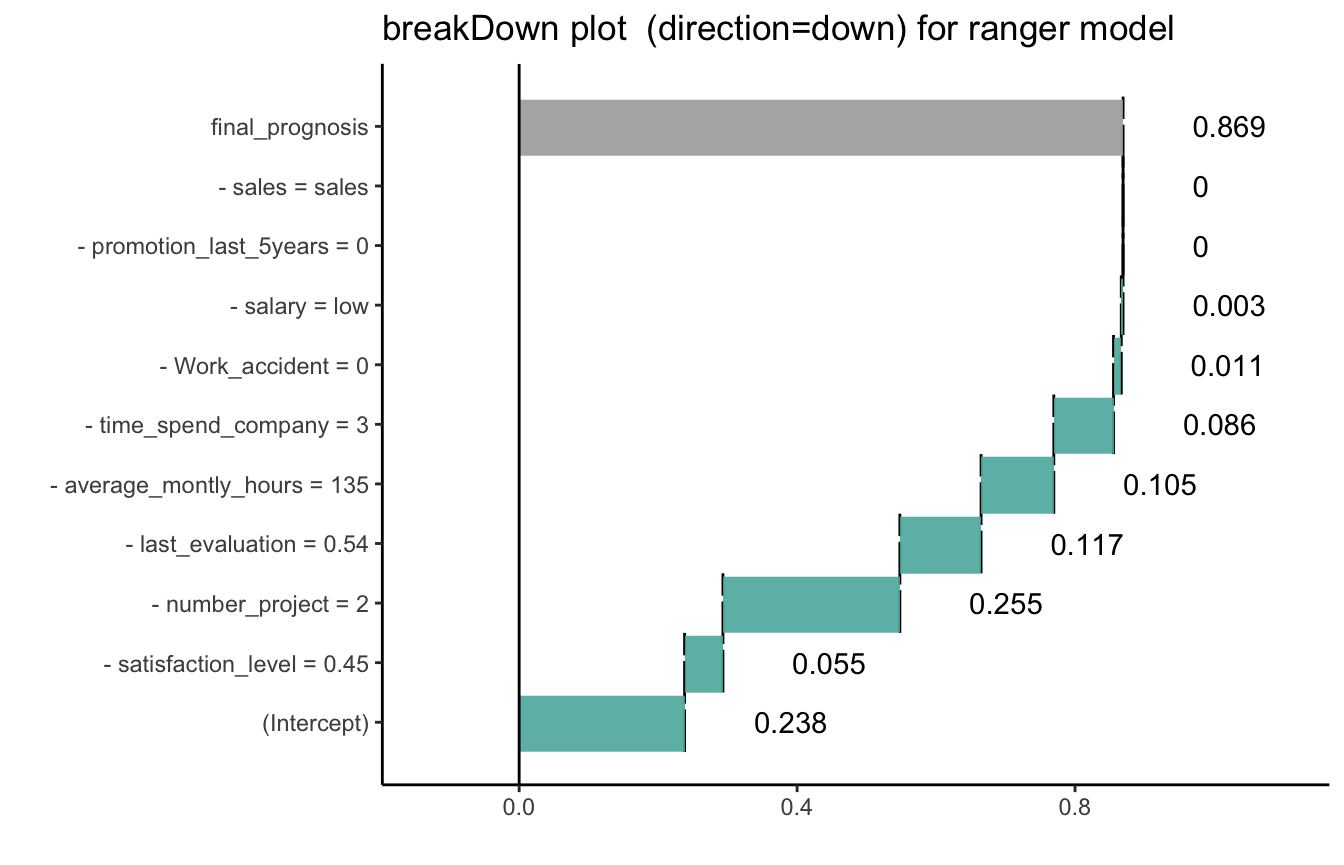
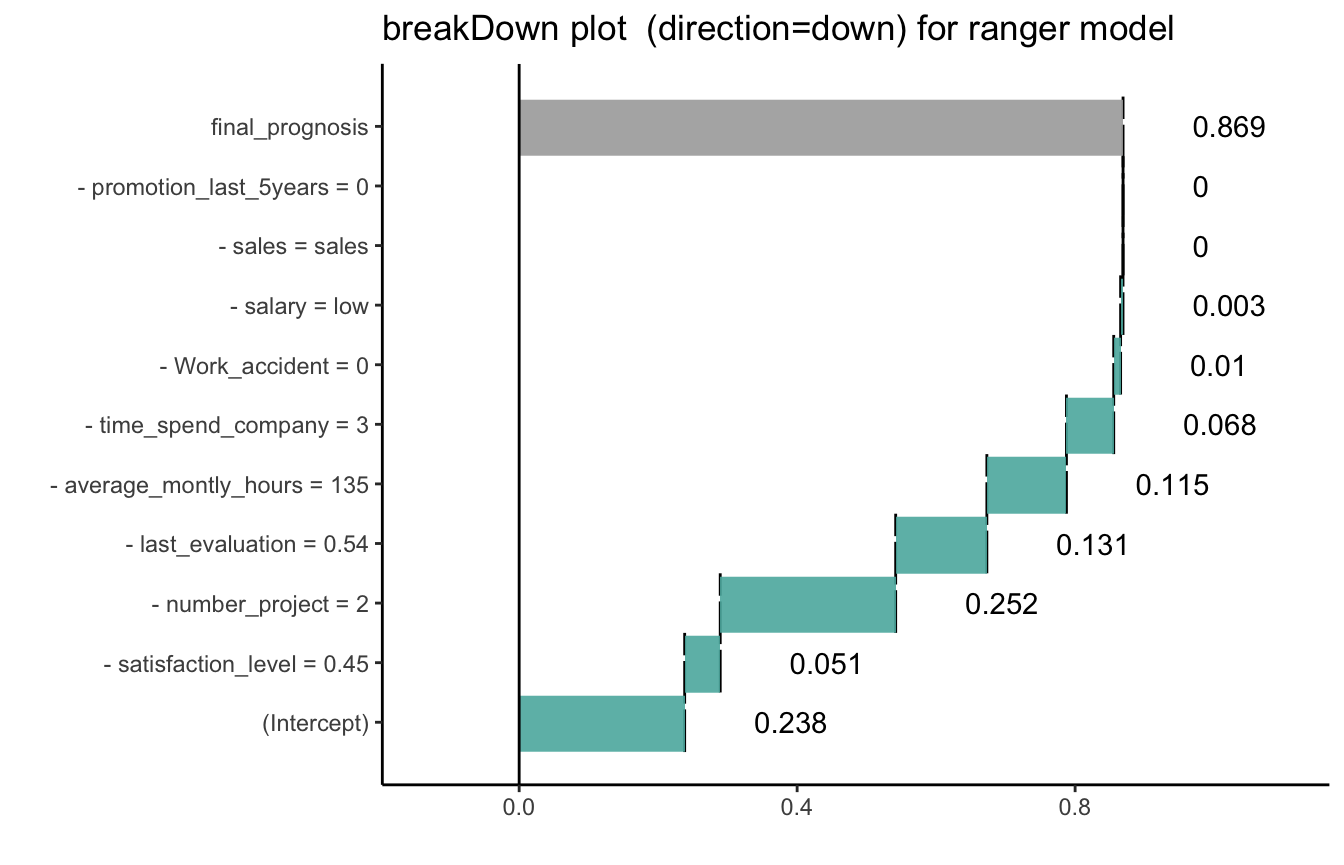
+ link to the python version

diff --git a/docs/articles/break_ranger.html b/docs/articles/break_ranger.html
@@ -117,8 +117,8 @@
 <a class="sourceLine" id="cb2-5" data-line-number="5">predict.function &lt;-<span class="st"> </span><span class="cf">function</span>(model, new_observation) <span class="kw">predict</span>(model, new_observation, <span class="dt">type =</span> <span class="st">"response"</span>)<span class="op">$</span>predictions[,<span class="dv">2</span>]</a>
 <a class="sourceLine" id="cb2-6" data-line-number="6"></a>
 <a class="sourceLine" id="cb2-7" data-line-number="7"><span class="kw">predict.function</span>(model, HR_data[<span class="dv">11</span>,])</a>
-<a class="sourceLine" id="cb2-8" data-line-number="8"><span class="co">#&gt;        1 </span></a>
-<a class="sourceLine" id="cb2-9" data-line-number="9"><span class="co">#&gt; 0.869104</span></a></code></pre></div>
+<a class="sourceLine" id="cb2-8" data-line-number="8"><span class="co">#&gt;         1 </span></a>
+<a class="sourceLine" id="cb2-9" data-line-number="9"><span class="co">#&gt; 0.8689887</span></a></code></pre></div>
 <p>But how to understand which factors drive predictions for a single observation?</p>
 <p>With the <code>breakDown</code> package!</p>
 <p>Explanations for the trees votings.</p>
@@ -130,15 +130,15 @@
 <a class="sourceLine" id="cb3-6" data-line-number="6">explain_<span class="dv">1</span></a>
 <a class="sourceLine" id="cb3-7" data-line-number="7"><span class="co">#&gt;                              contribution</span></a>
 <a class="sourceLine" id="cb3-8" data-line-number="8"><span class="co">#&gt; (Intercept)                         0.238</span></a>
-<a class="sourceLine" id="cb3-9" data-line-number="9"><span class="co">#&gt; - satisfaction_level = 0.45         0.055</span></a>
-<a class="sourceLine" id="cb3-10" data-line-number="10"><span class="co">#&gt; - number_project = 2                0.255</span></a>
-<a class="sourceLine" id="cb3-11" data-line-number="11"><span class="co">#&gt; - last_evaluation = 0.54            0.117</span></a>
-<a class="sourceLine" id="cb3-12" data-line-number="12"><span class="co">#&gt; - average_montly_hours = 135        0.105</span></a>
-<a class="sourceLine" id="cb3-13" data-line-number="13"><span class="co">#&gt; - time_spend_company = 3            0.086</span></a>
-<a class="sourceLine" id="cb3-14" data-line-number="14"><span class="co">#&gt; - Work_accident = 0                 0.011</span></a>
+<a class="sourceLine" id="cb3-9" data-line-number="9"><span class="co">#&gt; - satisfaction_level = 0.45         0.051</span></a>
+<a class="sourceLine" id="cb3-10" data-line-number="10"><span class="co">#&gt; - number_project = 2                0.252</span></a>
+<a class="sourceLine" id="cb3-11" data-line-number="11"><span class="co">#&gt; - last_evaluation = 0.54            0.131</span></a>
+<a class="sourceLine" id="cb3-12" data-line-number="12"><span class="co">#&gt; - average_montly_hours = 135        0.115</span></a>
+<a class="sourceLine" id="cb3-13" data-line-number="13"><span class="co">#&gt; - time_spend_company = 3            0.068</span></a>
+<a class="sourceLine" id="cb3-14" data-line-number="14"><span class="co">#&gt; - Work_accident = 0                 0.010</span></a>
 <a class="sourceLine" id="cb3-15" data-line-number="15"><span class="co">#&gt; - salary = low                      0.003</span></a>
-<a class="sourceLine" id="cb3-16" data-line-number="16"><span class="co">#&gt; - promotion_last_5years = 0         0.000</span></a>
-<a class="sourceLine" id="cb3-17" data-line-number="17"><span class="co">#&gt; - sales = sales                     0.000</span></a>
+<a class="sourceLine" id="cb3-16" data-line-number="16"><span class="co">#&gt; - sales = sales                     0.000</span></a>
+<a class="sourceLine" id="cb3-17" data-line-number="17"><span class="co">#&gt; - promotion_last_5years = 0         0.000</span></a>
 <a class="sourceLine" id="cb3-18" data-line-number="18"><span class="co">#&gt; final_prognosis                     0.869</span></a>
 <a class="sourceLine" id="cb3-19" data-line-number="19"><span class="co">#&gt; baseline:  0</span></a>
 <a class="sourceLine" id="cb3-20" data-line-number="20"><span class="kw">plot</span>(explain_<span class="dv">1</span>) <span class="op">+</span><span class="st"> </span><span class="kw"><a href="http://www.rdocumentation.org/packages/ggplot2/topics/labs">ggtitle</a></span>(<span class="st">"breakDown plot  (direction=down) for ranger model"</span>)</a></code></pre></div>
@@ -150,15 +150,15 @@
 <a class="sourceLine" id="cb4-5" data-line-number="5">explain_<span class="dv">2</span></a>
 <a class="sourceLine" id="cb4-6" data-line-number="6"><span class="co">#&gt;                              contribution</span></a>
 <a class="sourceLine" id="cb4-7" data-line-number="7"><span class="co">#&gt; (Intercept)                         0.238</span></a>
-<a class="sourceLine" id="cb4-8" data-line-number="8"><span class="co">#&gt; + satisfaction_level = 0.45         0.055</span></a>
-<a class="sourceLine" id="cb4-9" data-line-number="9"><span class="co">#&gt; + number_project = 2                0.255</span></a>
-<a class="sourceLine" id="cb4-10" data-line-number="10"><span class="co">#&gt; + last_evaluation = 0.54            0.117</span></a>
-<a class="sourceLine" id="cb4-11" data-line-number="11"><span class="co">#&gt; + average_montly_hours = 135        0.105</span></a>
-<a class="sourceLine" id="cb4-12" data-line-number="12"><span class="co">#&gt; + time_spend_company = 3            0.086</span></a>
-<a class="sourceLine" id="cb4-13" data-line-number="13"><span class="co">#&gt; + Work_accident = 0                 0.011</span></a>
+<a class="sourceLine" id="cb4-8" data-line-number="8"><span class="co">#&gt; + satisfaction_level = 0.45         0.051</span></a>
+<a class="sourceLine" id="cb4-9" data-line-number="9"><span class="co">#&gt; + number_project = 2                0.252</span></a>
+<a class="sourceLine" id="cb4-10" data-line-number="10"><span class="co">#&gt; + last_evaluation = 0.54            0.131</span></a>
+<a class="sourceLine" id="cb4-11" data-line-number="11"><span class="co">#&gt; + average_montly_hours = 135        0.115</span></a>
+<a class="sourceLine" id="cb4-12" data-line-number="12"><span class="co">#&gt; + time_spend_company = 3            0.068</span></a>
+<a class="sourceLine" id="cb4-13" data-line-number="13"><span class="co">#&gt; + Work_accident = 0                 0.010</span></a>
 <a class="sourceLine" id="cb4-14" data-line-number="14"><span class="co">#&gt; + salary = low                      0.003</span></a>
-<a class="sourceLine" id="cb4-15" data-line-number="15"><span class="co">#&gt; + promotion_last_5years = 0         0.000</span></a>
-<a class="sourceLine" id="cb4-16" data-line-number="16"><span class="co">#&gt; + sales = sales                     0.000</span></a>
+<a class="sourceLine" id="cb4-15" data-line-number="15"><span class="co">#&gt; + sales = sales                     0.000</span></a>
+<a class="sourceLine" id="cb4-16" data-line-number="16"><span class="co">#&gt; + promotion_last_5years = 0         0.000</span></a>
 <a class="sourceLine" id="cb4-17" data-line-number="17"><span class="co">#&gt; final_prognosis                     0.869</span></a>
 <a class="sourceLine" id="cb4-18" data-line-number="18"><span class="co">#&gt; baseline:  0</span></a>
 <a class="sourceLine" id="cb4-19" data-line-number="19"><span class="kw">plot</span>(explain_<span class="dv">2</span>) <span class="op">+</span><span class="st"> </span><span class="kw"><a href="http://www.rdocumentation.org/packages/ggplot2/topics/labs">ggtitle</a></span>(<span class="st">"breakDown plot (direction=up) for ranger model"</span>)</a></code></pre></div>

diff --git a/docs/reference/broken.html b/docs/reference/broken.html
@@ -165,16 +165,15 @@ Please note, that some of these functions have additional parameters.</p>
 #&gt; - sales = sales                     0.000
 #&gt; - promotion_last_5years = 0         0.000
 #&gt; final_prognosis                     0.888
-#&gt; baseline:  0 </div><div class='input'><span class='fu'>plot</span>(<span class='no'>explain_1</span>) + <span class='fu'><a href='http://www.rdocumentation.org/packages/ggplot2/topics/labs'>ggtitle</a></span>(<span class='st'>"breakDown plot (direction=down) for randomForest model"</span>)</div><div class='output co'>#&gt; <span class='error'>Error in grid.Call.graphics(C_setviewport, vp, TRUE): non-finite location and/or size for viewport</span></div><div class='img'><img src='broken-1.png' alt='' width='700' height='433' /></div><div class='input'>
+#&gt; baseline:  0 </div><div class='input'><span class='fu'>plot</span>(<span class='no'>explain_1</span>) + <span class='fu'><a href='http://www.rdocumentation.org/packages/ggplot2/topics/labs'>ggtitle</a></span>(<span class='st'>"breakDown plot (direction=down) for randomForest model"</span>)</div><div class='img'><img src='broken-1.png' alt='' width='700' height='433' /></div><div class='input'>
 <span class='no'>explain_2</span> <span class='kw'>&lt;-</span> <span class='fu'>broken</span>(<span class='no'>model</span>, <span class='no'>HR_data</span>[<span class='fl'>11</span>,-<span class='fl'>7</span>], <span class='kw'>data</span> <span class='kw'>=</span> <span class='no'>HR_data</span>[,-<span class='fl'>7</span>],
 <span class='kw'>predict.function</span> <span class='kw'>=</span> <span class='no'>predict.function</span>, <span class='kw'>direction</span> <span class='kw'>=</span> <span class='st'>"down"</span>, <span class='kw'>keep_distributions</span> <span class='kw'>=</span> <span class='fl'>TRUE</span>)
 <span class='fu'>plot</span>(<span class='no'>explain_2</span>, <span class='kw'>plot_distributions</span> <span class='kw'>=</span> <span class='fl'>TRUE</span>) +
-         <span class='fu'><a href='http://www.rdocumentation.org/packages/ggplot2/topics/labs'>ggtitle</a></span>(<span class='st'>"breakDown distributions (direction=down) for randomForest model"</span>)
-
+         <span class='fu'><a href='http://www.rdocumentation.org/packages/ggplot2/topics/labs'>ggtitle</a></span>(<span class='st'>"breakDown distributions (direction=down) for randomForest model"</span>)</div><div class='img'><img src='broken-2.png' alt='' width='700' height='433' /></div><div class='input'>
 <span class='no'>explain_3</span> <span class='kw'>&lt;-</span> <span class='fu'>broken</span>(<span class='no'>model</span>, <span class='no'>HR_data</span>[<span class='fl'>11</span>,-<span class='fl'>7</span>], <span class='kw'>data</span> <span class='kw'>=</span> <span class='no'>HR_data</span>[,-<span class='fl'>7</span>],
 <span class='kw'>predict.function</span> <span class='kw'>=</span> <span class='no'>predict.function</span>, <span class='kw'>direction</span> <span class='kw'>=</span> <span class='st'>"up"</span>, <span class='kw'>keep_distributions</span> <span class='kw'>=</span> <span class='fl'>TRUE</span>)
 <span class='fu'>plot</span>(<span class='no'>explain_3</span>, <span class='kw'>plot_distributions</span> <span class='kw'>=</span> <span class='fl'>TRUE</span>) +
-         <span class='fu'><a href='http://www.rdocumentation.org/packages/ggplot2/topics/labs'>ggtitle</a></span>(<span class='st'>"breakDown distributions (direction=up) for randomForest model"</span>)</div></pre>
+         <span class='fu'><a href='http://www.rdocumentation.org/packages/ggplot2/topics/labs'>ggtitle</a></span>(<span class='st'>"breakDown distributions (direction=up) for randomForest model"</span>)</div><div class='img'><img src='broken-3.png' alt='' width='700' height='433' /></div></pre>
   </div>
   <div class="col-md-3 hidden-xs hidden-sm" id="sidebar">
     <h2>Contents</h2>

diff --git a/docs/articles/break_svm.html b/docs/articles/break_svm.html
@@ -109,12 +109,12 @@
 <a class="sourceLine" id="cb1-9" data-line-number="9"><span class="co">#&gt;  parameter : epsilon = 0.1  cost C = 1 </span></a>
 <a class="sourceLine" id="cb1-10" data-line-number="10"><span class="co">#&gt; </span></a>
 <a class="sourceLine" id="cb1-11" data-line-number="11"><span class="co">#&gt; Gaussian Radial Basis kernel function. </span></a>
-<a class="sourceLine" id="cb1-12" data-line-number="12"><span class="co">#&gt;  Hyperparameter : sigma =  0.082020927772521 </span></a>
+<a class="sourceLine" id="cb1-12" data-line-number="12"><span class="co">#&gt;  Hyperparameter : sigma =  0.0786976831936912 </span></a>
 <a class="sourceLine" id="cb1-13" data-line-number="13"><span class="co">#&gt; </span></a>
-<a class="sourceLine" id="cb1-14" data-line-number="14"><span class="co">#&gt; Number of Support Vectors : 4191 </span></a>
+<a class="sourceLine" id="cb1-14" data-line-number="14"><span class="co">#&gt; Number of Support Vectors : 4202 </span></a>
 <a class="sourceLine" id="cb1-15" data-line-number="15"><span class="co">#&gt; </span></a>
-<a class="sourceLine" id="cb1-16" data-line-number="16"><span class="co">#&gt; Objective Function Value : -2266.48 </span></a>
-<a class="sourceLine" id="cb1-17" data-line-number="17"><span class="co">#&gt; Training error : 0.521774</span></a>
+<a class="sourceLine" id="cb1-16" data-line-number="16"><span class="co">#&gt; Objective Function Value : -2277.735 </span></a>
+<a class="sourceLine" id="cb1-17" data-line-number="17"><span class="co">#&gt; Training error : 0.526076</span></a>
 <a class="sourceLine" id="cb1-18" data-line-number="18"></a>
 <a class="sourceLine" id="cb1-19" data-line-number="19"><span class="co"># or with the e1071:::svm</span></a>
 <a class="sourceLine" id="cb1-20" data-line-number="20"></a>

diff --git a/docs/index.html b/docs/index.html
@@ -92,6 +92,7 @@
 <p>The <code>breakDown</code> package is a model agnostic tool for decomposition of predictions from black boxes. Break Down Table shows contributions of every variable to a final prediction. Break Down Plot presents variable contributions in a concise graphical way. This package works for binary classifiers and general regression models.</p>
 <p>Find lots of R examples at <code>breakDown</code> website: <a href="https://pbiecek.github.io/breakDown/" class="uri">https://pbiecek.github.io/breakDown/</a></p>
 <p>Interested in the methodology? Find the math behind <code>breakDown</code> and <code>live</code> at: <a href="https://arxiv.org/abs/1804.01955" class="uri">https://arxiv.org/abs/1804.01955</a></p>
+<p>Looking for the <code>python</code> version of Break Down? Find it here: <a href="https://github.com/bondyra/pyBreakDown" class="uri">https://github.com/bondyra/pyBreakDown</a></p>
 <div id="installation" class="section level2">
 <h2 class="hasAnchor">
 <a href="#installation" class="anchor"></a>Installation</h2>

diff --git a/README.md b/README.md
@@ -16,6 +16,8 @@ Find lots of R examples at `breakDown` website: https://pbiecek.github.io/breakD
 
 Interested in the methodology? Find the math behind `breakDown` and `live` at: https://arxiv.org/abs/1804.01955
 
+Looking for the `python` version of Break Down? Find it here: https://github.com/bondyra/pyBreakDown
+
 ## Installation
 
 Install from CRAN
